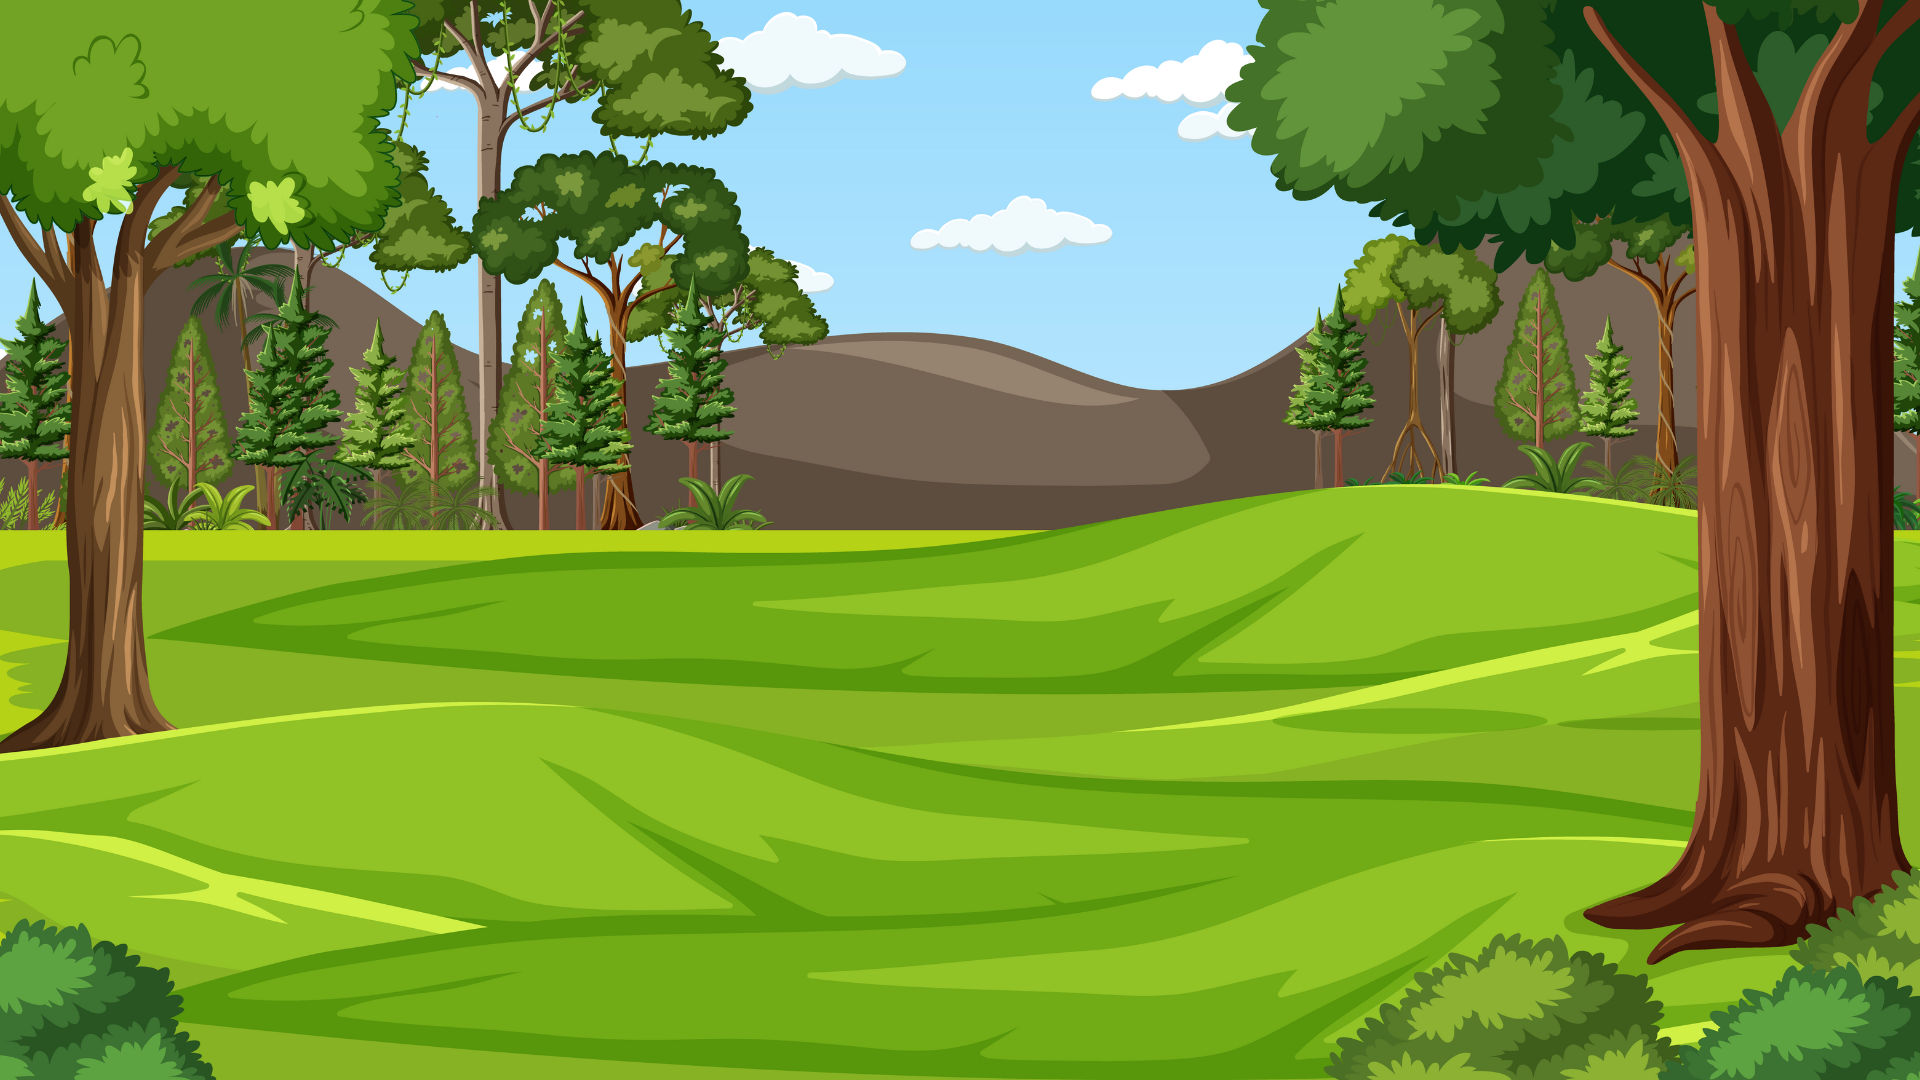
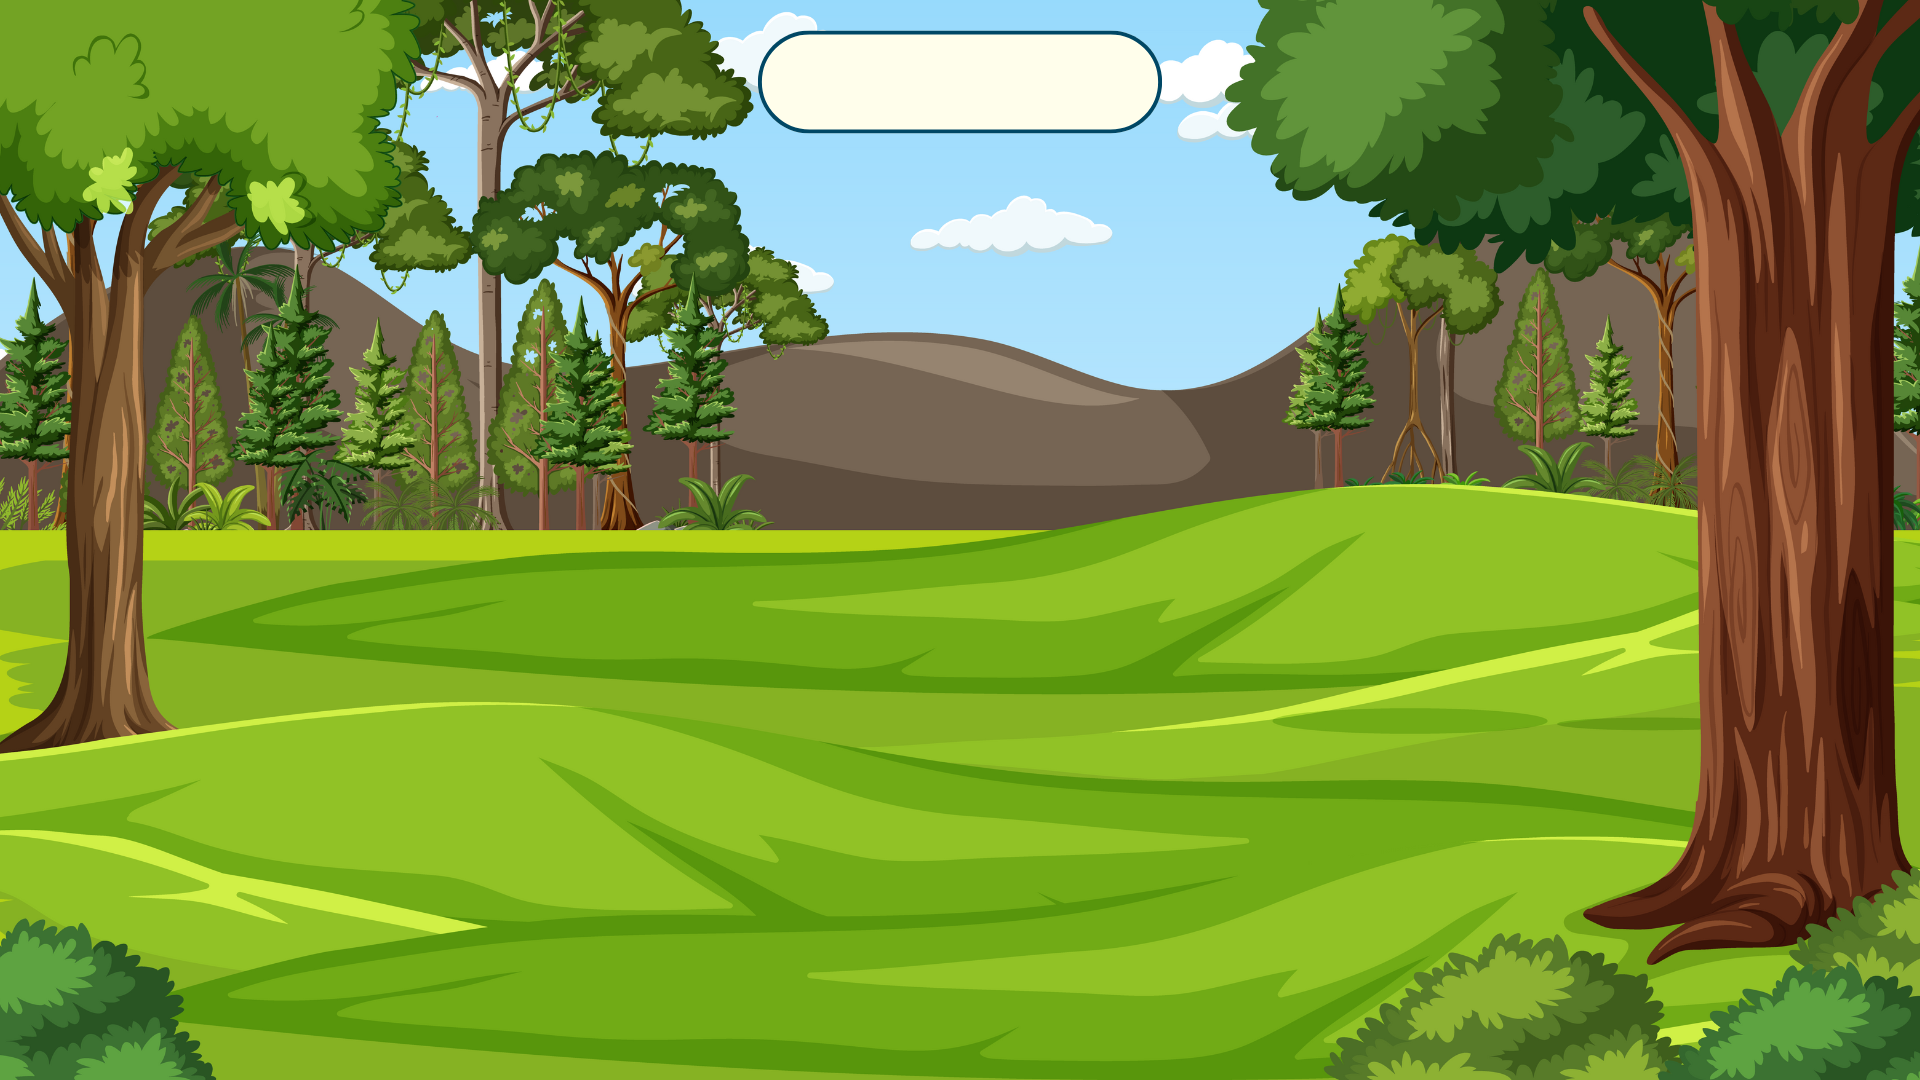
add energy count in energy city

Changed region(s): [[0.375, 0.0306, 0.625, 0.1222]]

diff --git a/headers/energyCity.h b/headers/energyCity.h
@@ -2,6 +2,7 @@
 #define ENERGYCITY_H
 
 #include "C:\raylib\raylib\src\raylib.h"
+#include "settings.h"
 #include <cstdlib>
 
 class Fruit {
@@ -100,6 +101,8 @@ class EnergyCity {
         int currentFruit = 0;
         float energyCount;
 
+        Font font = LoadFontEx("assets/fonts/Montserrat-SemiBold.ttf", TOKEN_FONT_SIZE, NULL, 0);
+
     public:
         EnergyCity (Cap *p) : player(p) {
             background = LoadTexture("assets/energyCity/bg1.png");
@@ -125,6 +128,10 @@ class EnergyCity {
                 fruits[i].draw();
             }
             basket->draw();
+            
+            string text = "Consumable Energy: " + to_string(player->getEnergy());
+            Vector2 textSize = MeasureTextEx(font, text.c_str(), TOKEN_FONT_SIZE, 0);
+            DrawTextEx(font, (text).c_str(), {WINDOW_WIDTH/2 - textSize.x/2, 100 - textSize.y}, TOKEN_FONT_SIZE, 0, TEXT_COLOR);
         }
 
         void update () {
@@ -144,7 +151,7 @@ class EnergyCity {
             for (int i = 0; i < numFruits; i++) {
                 if (fruits[i].checkCollision(basket->getRect())) {
                     fruits[i].spawn();
-                    player->increaseEnergy(5);
+                    player->increaseEnergy(2);
                 }
                 fruits[i].update();
             }

diff --git a/headers/lobby.h b/headers/lobby.h
@@ -56,6 +56,7 @@ class Lobby {
             "EMPTY", "CUSTOMIZE", "PONG", "WITHDRAW", "CAR GAME", "SPACESHOOTER", "EARN", "EAT"
         };
         Font font = LoadFontEx("assets/fonts/Montserrat-SemiBold.ttf", TOKEN_FONT_SIZE, NULL, 0);
+    
     public:
         Lobby (Cap* p) : player(p){
             background = LoadTexture("assets/lobby/background.png");
